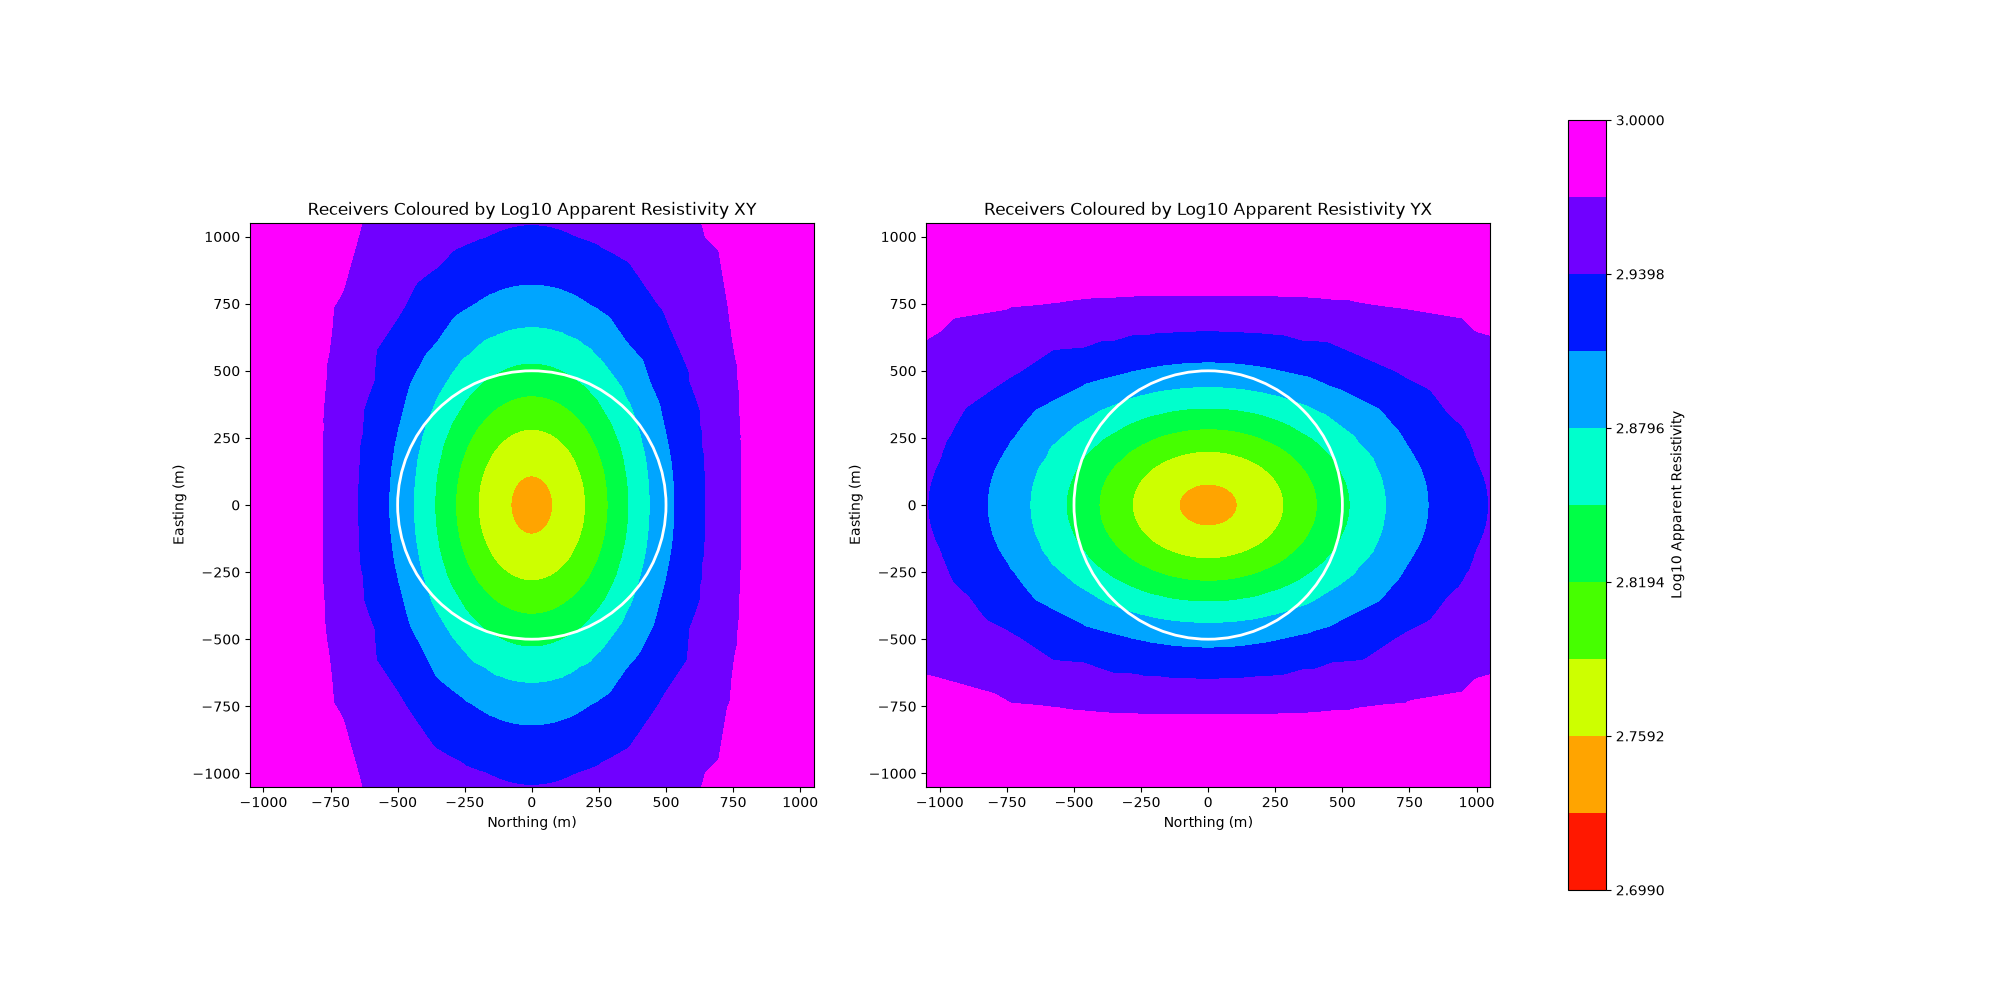
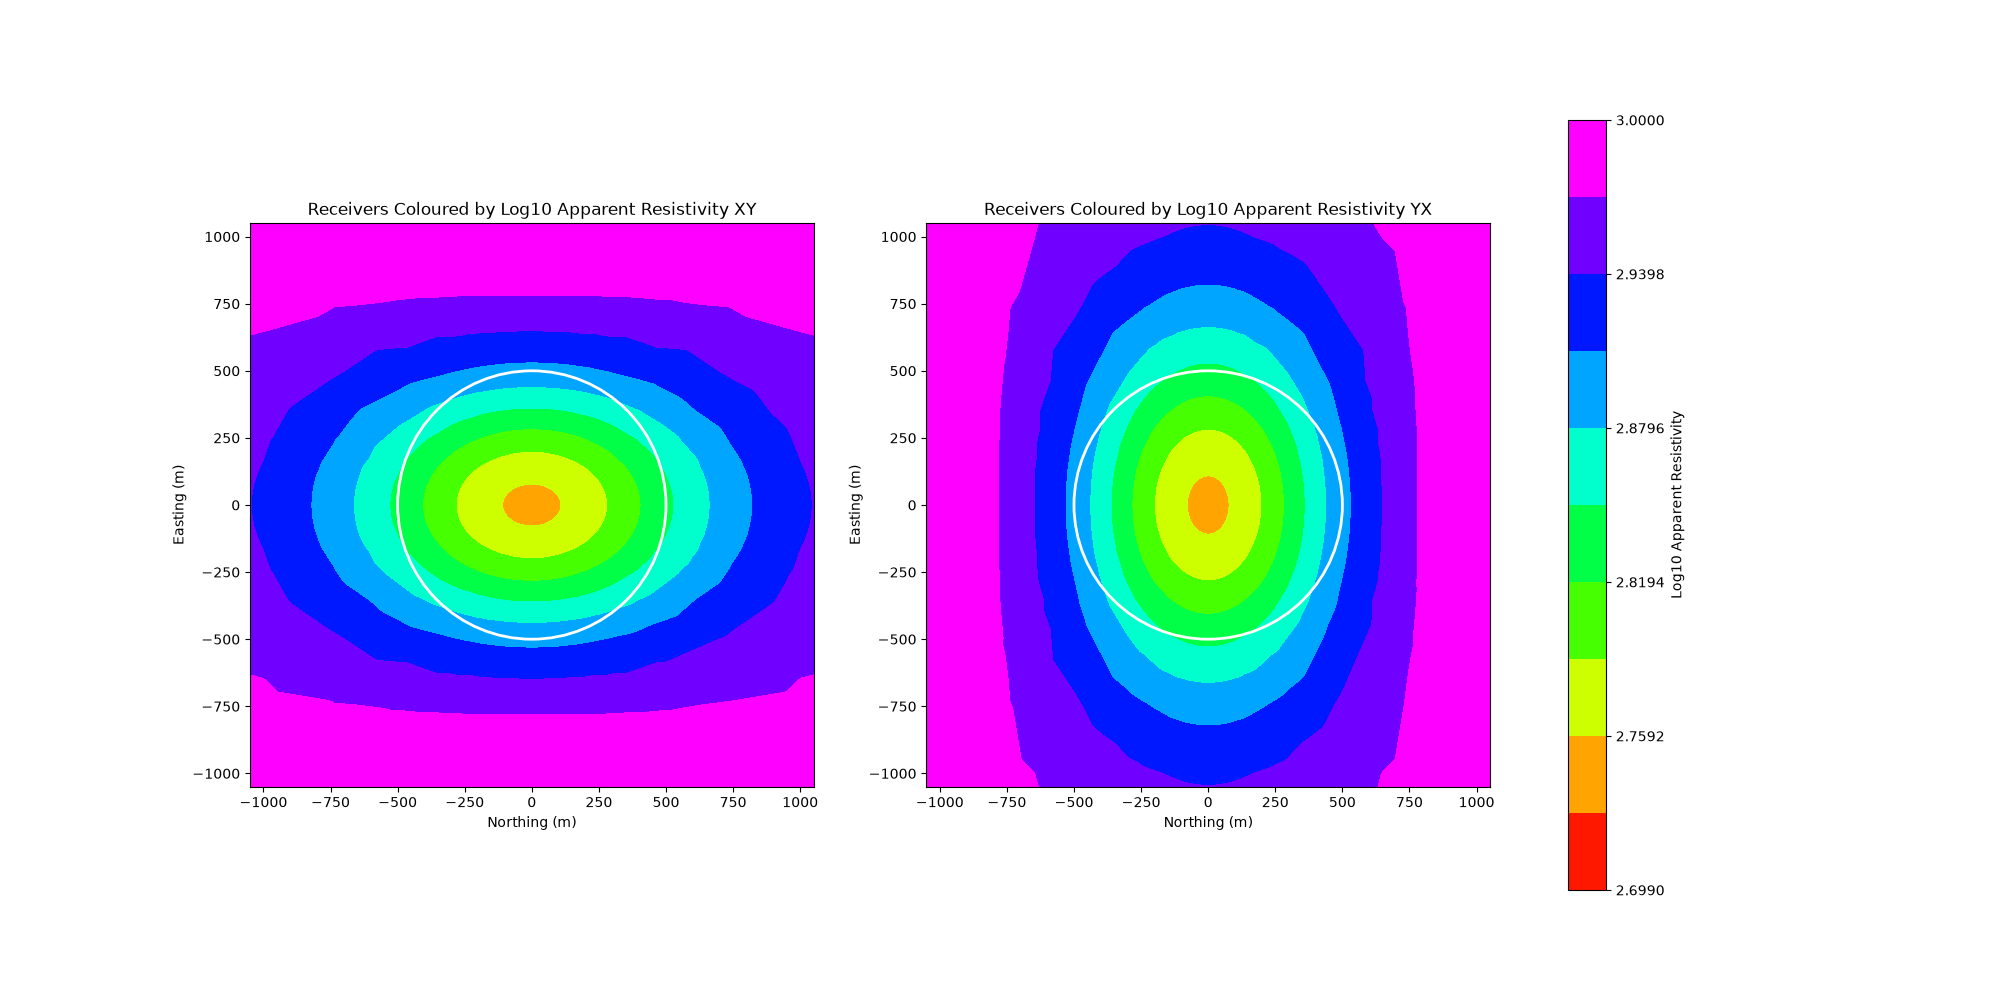
Undo redundant plot rotation

Changed region(s): [[0.124, 0.217, 0.434, 0.806], [0.465, 0.217, 0.744, 0.806]]

diff --git a/presentation_plots.py b/presentation_plots.py
@@ -206,12 +206,8 @@ for j in plot_freqs_ind:
     axes[1].set_xlim(x_min, x_max)
     axes[1].set_ylim(y_min, y_max)
 
-    base_transform = axes[0].transData
-    rotation_transform = transforms.Affine2D().rotate_deg(90)
-    plot, _ = utils.plot2Ddata(rx_locs, valuesxy, ax=axes[0], nx=1000, ny=1000, clim=[vmin, vmax], contourOpts={"cmap": "gist_rainbow", "transform": rotation_transform + base_transform})
-    base_transform = axes[1].transData
-    rotation_transform = transforms.Affine2D().rotate_deg(90)
-    plot, _ = utils.plot2Ddata(rx_locs, valuesyx, ax=axes[1], nx=1000, ny=1000, clim=[vmin, vmax], contourOpts={"cmap": "gist_rainbow", "transform": rotation_transform + base_transform})
+    plot, _ = utils.plot2Ddata(rx_locs, valuesxy, ax=axes[0], nx=1000, ny=1000, clim=[vmin, vmax], contourOpts={"cmap": "gist_rainbow"})
+    plot, _ = utils.plot2Ddata(rx_locs, valuesyx, ax=axes[1], nx=1000, ny=1000, clim=[vmin, vmax], contourOpts={"cmap": "gist_rainbow"})
 
     axes[0].set_xlabel('Northing (m)')
     axes[0].set_ylabel('Easting (m)')
@@ -264,12 +260,8 @@ for j in plot_freqs_ind:
     axes[1].set_xlim(x_min, x_max)
     axes[1].set_ylim(y_min, y_max)
 
-    base_transform = axes[0].transData
-    rotation_transform = transforms.Affine2D().rotate_deg(90)
-    plot, _ = utils.plot2Ddata(rx_locs, valuesxy, ax=axes[0], nx=1000, ny=1000, clim=[vmin, vmax], contourOpts={"cmap": "bwr", "transform": rotation_transform + base_transform})
-    base_transform = axes[1].transData
-    rotation_transform = transforms.Affine2D().rotate_deg(90)
-    plot, _ = utils.plot2Ddata(rx_locs, valuesyx, ax=axes[1], nx=1000, ny=1000, clim=[vmin, vmax], contourOpts={"cmap": "bwr", "transform": rotation_transform + base_transform})
+    plot, _ = utils.plot2Ddata(rx_locs, valuesxy, ax=axes[0], nx=1000, ny=1000, clim=[vmin, vmax], contourOpts={"cmap": "bwr"})
+    plot, _ = utils.plot2Ddata(rx_locs, valuesyx, ax=axes[1], nx=1000, ny=1000, clim=[vmin, vmax], contourOpts={"cmap": "bwr"})
 
     axes[0].set_xlabel('Northing (m)')
     axes[0].set_ylabel('Easting (m)')
@@ -315,12 +307,8 @@ for j in plot_freqs_ind:
     axes[1].set_xlim(x_min, x_max)
     axes[1].set_ylim(y_min, y_max)
 
-    base_transform = axes[0].transData
-    rotation_transform = transforms.Affine2D().rotate_deg(90)
-    plot, _ = utils.plot2Ddata(rx_locs, valuesxy, nx=1000, ny=1000, ax=axes[0], ncontour=20, clim=[vmin, vmax], contourOpts={"cmap": "gist_rainbow_r", "transform": rotation_transform + base_transform})
-    base_transform = axes[1].transData
-    rotation_transform = transforms.Affine2D().rotate_deg(90)
-    plot, _ = utils.plot2Ddata(rx_locs, valuesyx, ax=axes[1], nx=1000, ny=1000, ncontour=20, clim=[vmin, vmax], contourOpts={"cmap": "gist_rainbow_r", "transform": rotation_transform + base_transform})
+    plot, _ = utils.plot2Ddata(rx_locs, valuesxy, nx=1000, ny=1000, ax=axes[0], ncontour=20, clim=[vmin, vmax], contourOpts={"cmap": "gist_rainbow_r"})
+    plot, _ = utils.plot2Ddata(rx_locs, valuesyx, ax=axes[1], nx=1000, ny=1000, ncontour=20, clim=[vmin, vmax], contourOpts={"cmap": "gist_rainbow_r"})
 
     axes[0].set_xlabel('Northing (m)')
     axes[0].set_ylabel('Easting (m)')
@@ -371,12 +359,8 @@ for j in plot_freqs_ind:
     axes[1].set_xlim(x_min, x_max)
     axes[1].set_ylim(y_min, y_max)
 
-    base_transform = axes[0].transData
-    rotation_transform = transforms.Affine2D().rotate_deg(90)
-    plot, _ = utils.plot2Ddata(rx_locs, valuesxy, nx=1000, ny=1000, ax=axes[0], ncontour=20, clim=[vmin, vmax], contourOpts={"cmap": "bwr", "transform": rotation_transform + base_transform})
-    base_transform = axes[1].transData
-    rotation_transform = transforms.Affine2D().rotate_deg(90)
-    plot, _ = utils.plot2Ddata(rx_locs, valuesyx, ax=axes[1], nx=1000, ny=1000, ncontour=20, clim=[vmin, vmax], contourOpts={"cmap": "bwr", "transform": rotation_transform + base_transform})
+    plot, _ = utils.plot2Ddata(rx_locs, valuesxy, nx=1000, ny=1000, ax=axes[0], ncontour=20, clim=[vmin, vmax], contourOpts={"cmap": "bwr"})
+    plot, _ = utils.plot2Ddata(rx_locs, valuesyx, ax=axes[1], nx=1000, ny=1000, ncontour=20, clim=[vmin, vmax], contourOpts={"cmap": "bwr"})
 
     axes[0].set_xlabel('Northing (m)')
     axes[0].set_ylabel('Easting (m)')
@@ -422,12 +406,8 @@ for j in plot_freqs_ind:
     axes[1].set_xlim(x_min, x_max)
     axes[1].set_ylim(y_min, y_max)
 
-    base_transform = axes[0].transData
-    rotation_transform = transforms.Affine2D().rotate_deg(90)
-    plot, _ = utils.plot2Ddata(rx_locs, valuesxy, nx=1000, ny=1000, ax=axes[0], ncontour=20, clim=[vmin, vmax], contourOpts={"cmap": "bwr", "transform": rotation_transform + base_transform})
-    base_transform = axes[1].transData
-    rotation_transform = transforms.Affine2D().rotate_deg(90)
-    plot, _ = utils.plot2Ddata(rx_locs, valuesyx, ax=axes[1], nx=1000, ny=1000, ncontour=20, clim=[vmin, vmax], contourOpts={"cmap": "bwr", "transform": rotation_transform + base_transform})
+    plot, _ = utils.plot2Ddata(rx_locs, valuesxy, nx=1000, ny=1000, ax=axes[0], ncontour=20, clim=[vmin, vmax], contourOpts={"cmap": "bwr"})
+    plot, _ = utils.plot2Ddata(rx_locs, valuesyx, ax=axes[1], nx=1000, ny=1000, ncontour=20, clim=[vmin, vmax], contourOpts={"cmap": "bwr"})
 
     axes[0].set_xlabel('Northing (m)')
     axes[0].set_ylabel('Easting (m)')
@@ -473,12 +453,8 @@ for j in plot_freqs_ind:
     axes[1].set_xlim(x_min, x_max)
     axes[1].set_ylim(y_min, y_max)
 
-    base_transform = axes[0].transData
-    rotation_transform = transforms.Affine2D().rotate_deg(90)
-    plot, _ = utils.plot2Ddata(rx_locs, valuesxy, nx=1000, ny=1000, ax=axes[0], ncontour=20, clim=[vmin, vmax], contourOpts={"cmap": "bwr", "transform": rotation_transform + base_transform})
-    base_transform = axes[1].transData
-    rotation_transform = transforms.Affine2D().rotate_deg(90)
-    plot, _ = utils.plot2Ddata(rx_locs, valuesyx, ax=axes[1], nx=1000, ny=1000, ncontour=20, clim=[vmin, vmax], contourOpts={"cmap": "bwr", "transform": rotation_transform + base_transform})
+    plot, _ = utils.plot2Ddata(rx_locs, valuesxy, nx=1000, ny=1000, ax=axes[0], ncontour=20, clim=[vmin, vmax], contourOpts={"cmap": "bwr"})
+    plot, _ = utils.plot2Ddata(rx_locs, valuesyx, ax=axes[1], nx=1000, ny=1000, ncontour=20, clim=[vmin, vmax], contourOpts={"cmap": "bwr"})
 
     axes[0].set_xlabel('Northing (m)')
     axes[0].set_ylabel('Easting (m)')
